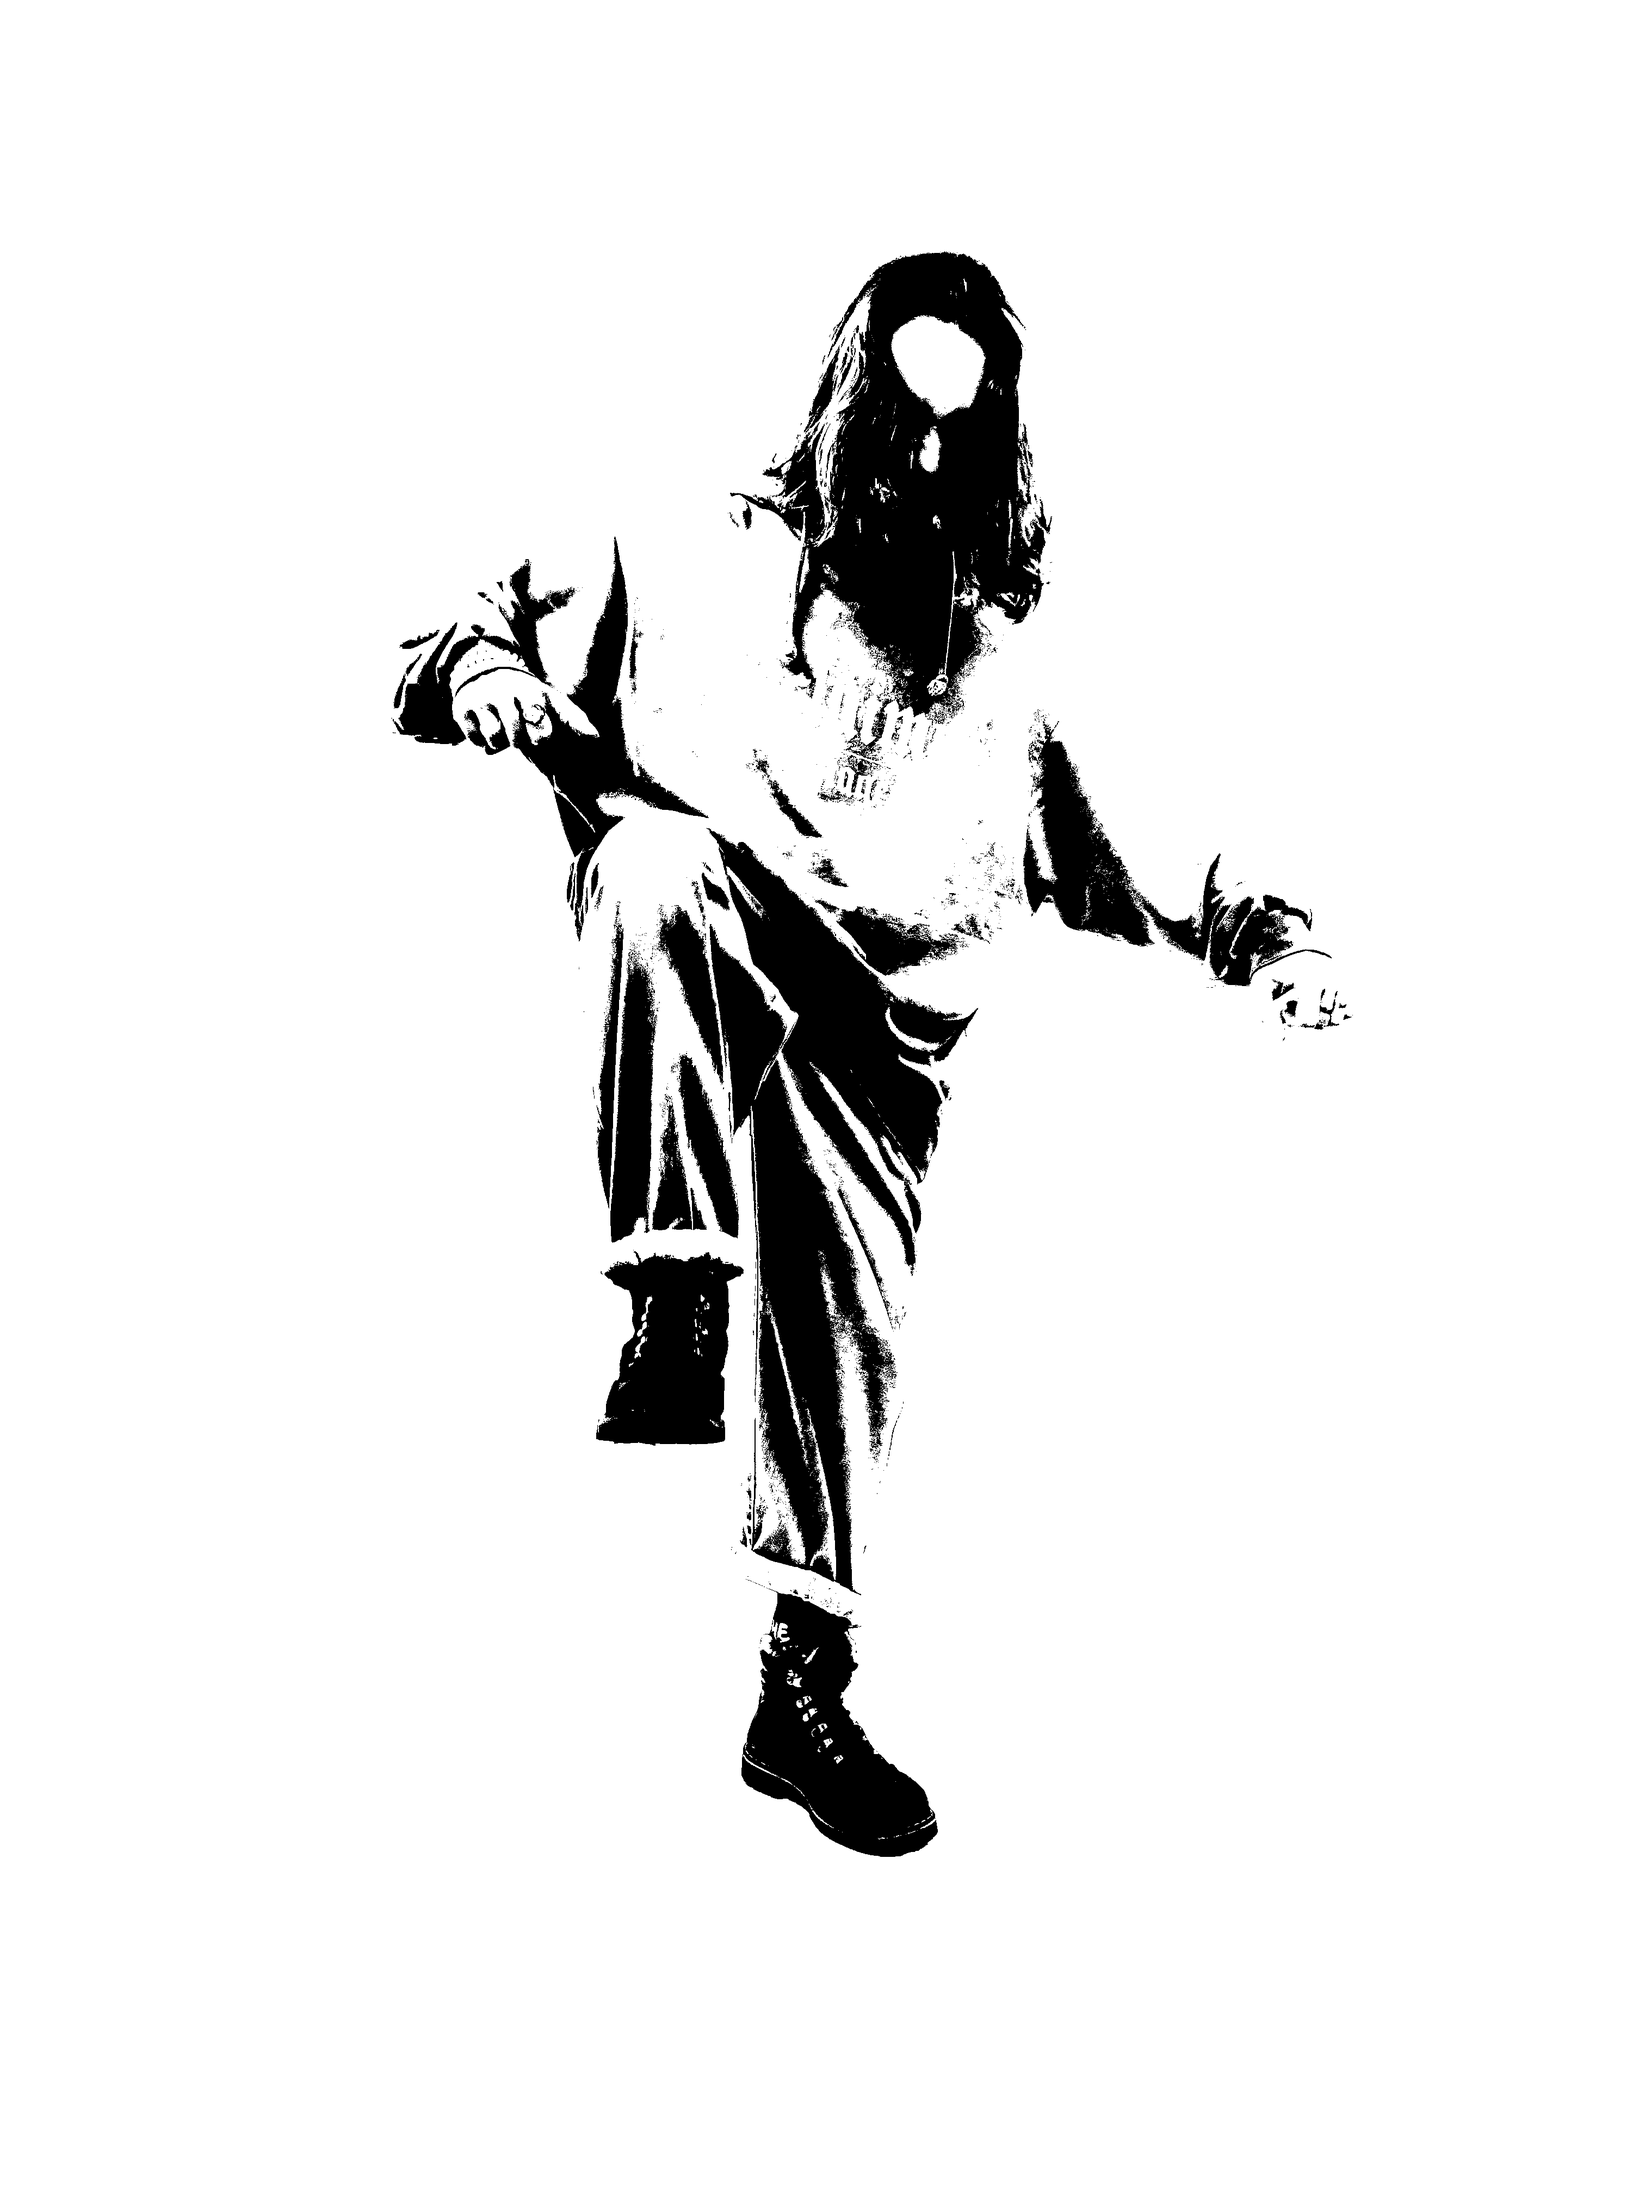
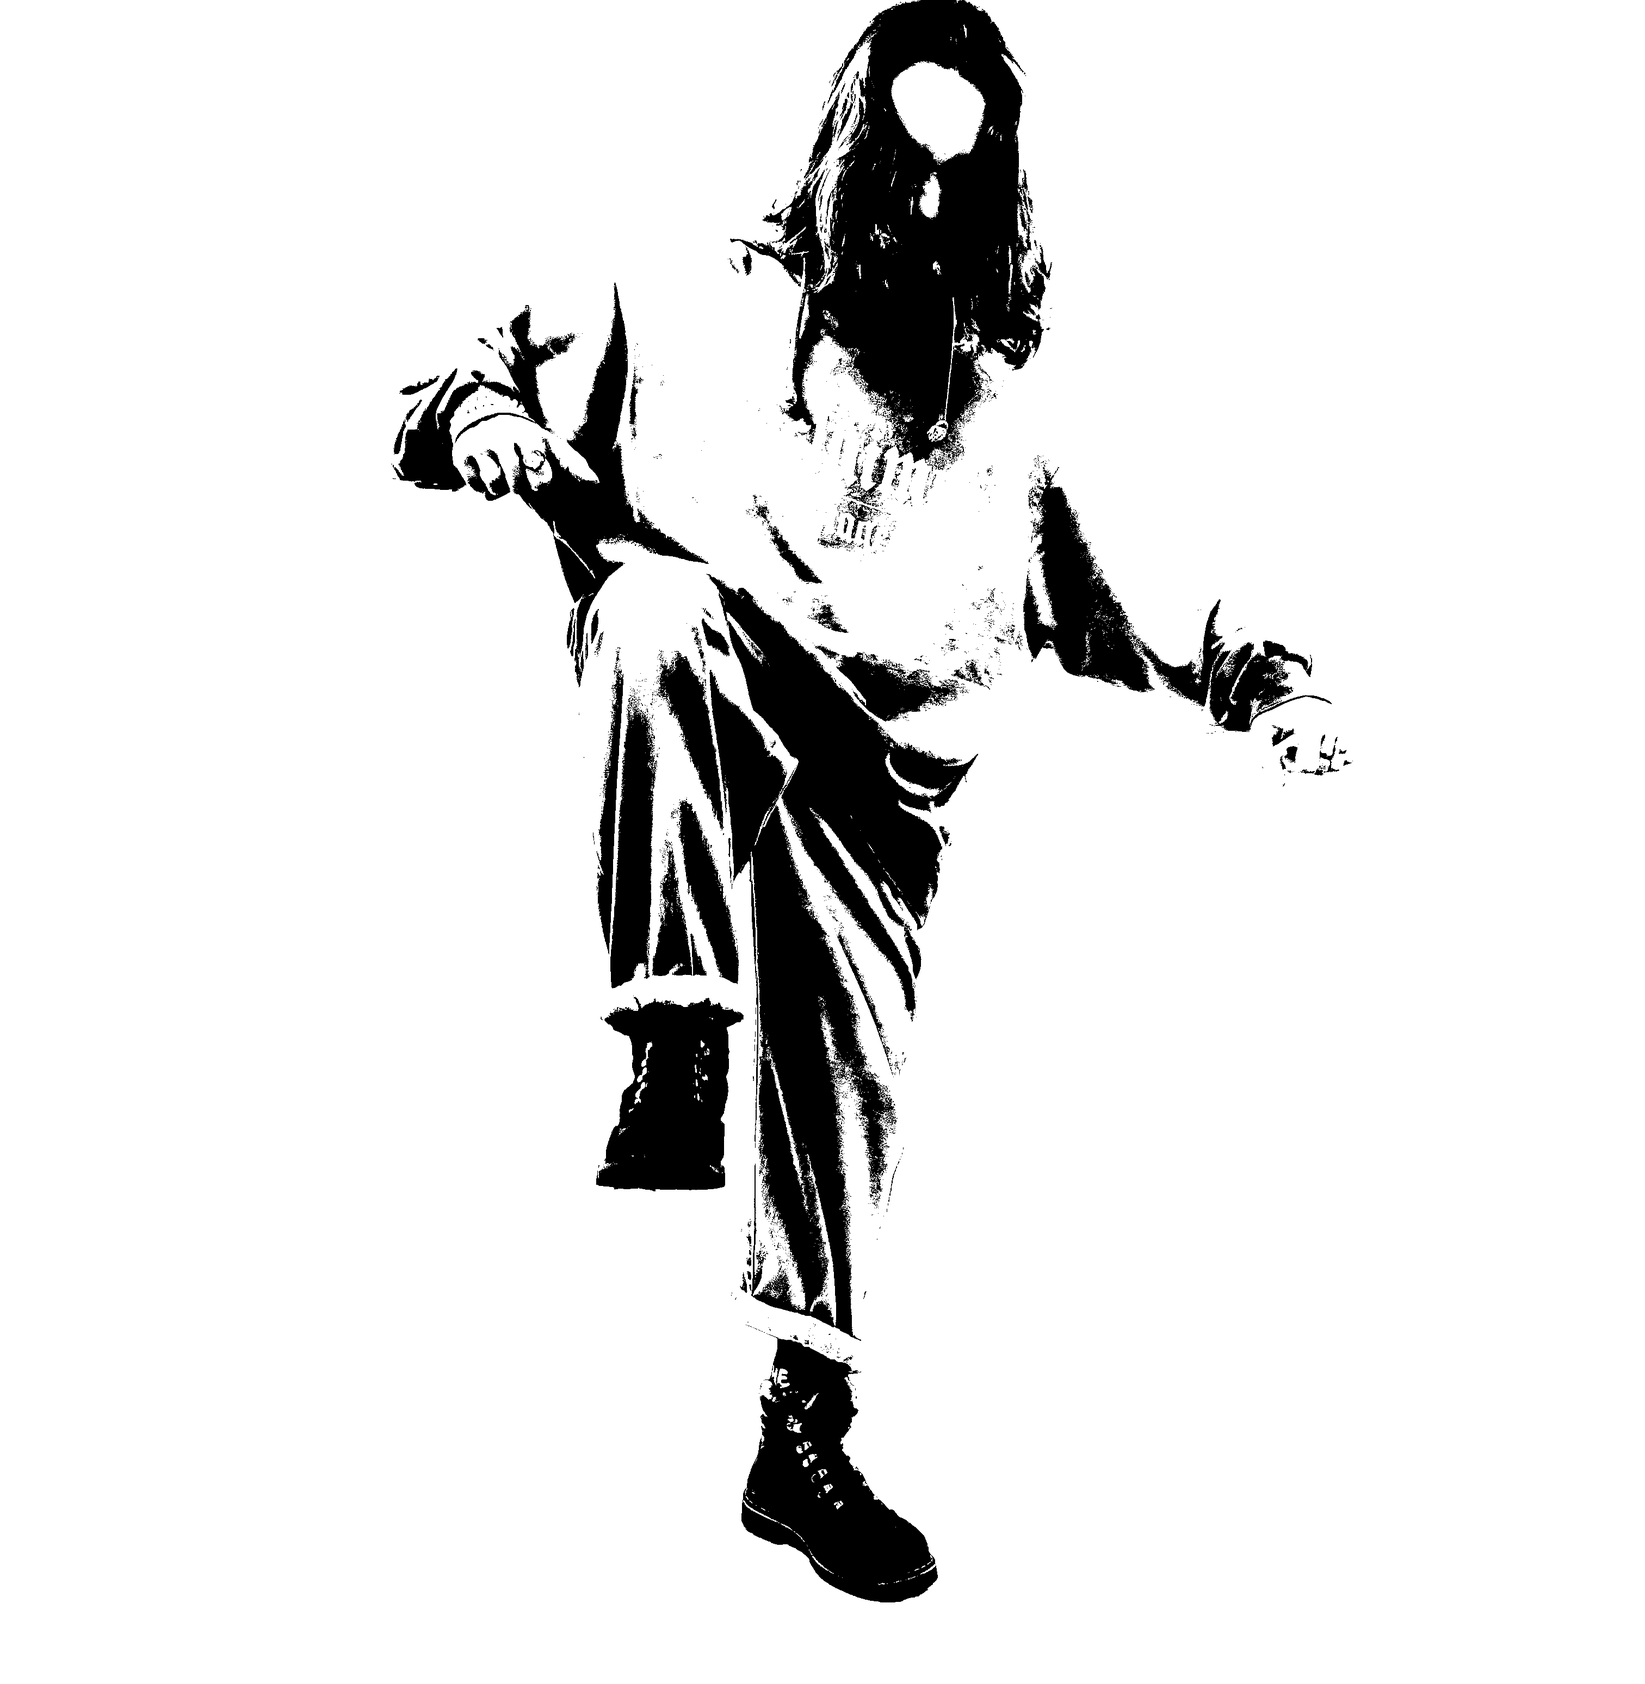
pp hover image height

Changed region(s): [[0.2176, 0.0, 0.8082, 0.9609]]

diff --git a/styles/style.css b/styles/style.css
@@ -355,7 +355,7 @@
     .me-1-1 {
         width: 55vw;
         position: absolute;
-        transform: translateY(-120vh) translateX(-47vw);
+        transform: translateY(-100vh) translateX(-47vw);
         transform-origin: center;
 
         animation: me-1-1 0.24s linear 0s infinite alternate;
@@ -409,7 +409,7 @@
     .me-1-2 {
         width: 55vw;
         position: absolute;
-        transform: translateY(-120vh) translateX(-47vw);
+        transform: translateY(-100vh) translateX(-47vw);
         transform-origin: center;
 
         animation: me-1-2 0.24s linear 0s infinite alternate;
@@ -463,7 +463,7 @@
     .me-1-3 {
         width: 55vw;
         position: absolute;
-        transform: translateY(-120vh) translateX(-47vw);
+        transform: translateY(-100vh) translateX(-47vw);
         transform-origin: center;
 
         animation: me-1-3 0.24s linear 0s infinite alternate;
@@ -517,7 +517,7 @@
     .me-1-4 {
         width: 55vw;
         position: absolute;
-        transform: translateY(-120vh) translateX(-47vw);
+        transform: translateY(-100vh) translateX(-47vw);
         transform-origin: center;
 
         animation: me-1-4 0.24s linear 0s infinite alternate;
